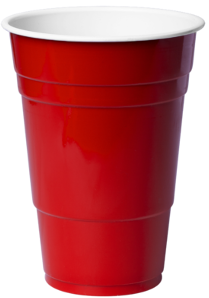
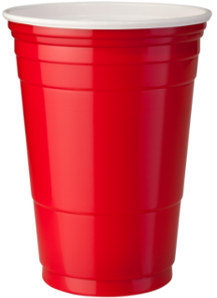
Medium level fully working

diff --git a/Project/core/src/com/beerpong/game/controller/entities/TableModel.java b/Project/core/src/com/beerpong/game/controller/entities/TableModel.java
@@ -1,27 +1,20 @@
 package com.beerpong.game.controller.entities;
 
-import com.badlogic.gdx.math.Vector2;
 import com.badlogic.gdx.physics.box2d.BodyDef;
 import com.badlogic.gdx.physics.box2d.FixtureDef;
 import com.badlogic.gdx.physics.box2d.PolygonShape;
 import com.badlogic.gdx.physics.box2d.World;
 import com.beerpong.game.model.entities.EntityModel;
 
-
 /**
- * Created by Sofia on 6/1/2017.
+ * Created by Sofia on 6/6/2017.
  */
 
-public class CupBody extends EntityBody {
+public class TableModel extends EntityBody {
 
 
-    /**
-     * Constructs a body representing a model in a certain world.
-     *
-     * @param world The world this body lives on.
-     * @param model The model representing the body.
-     */
-    public CupBody(World world, EntityModel model) {
+    public TableModel(World world, EntityModel model) {
+
 
         BodyDef bodyDef = new BodyDef();
         bodyDef.type = BodyDef.BodyType.StaticBody;
@@ -31,27 +24,22 @@ public class CupBody extends EntityBody {
         body = world.createBody(bodyDef);
         body.setUserData(model);
 
-
         float density = 2f, friction = 1f, restitution = 0f;
-        int width = 234, height = 330;
+        int width = 1600, height = 723;
 
 
-        // left side
+        // top
         createFixture(body, new float[]{
-                0,20, 40,330,55,330,15,20
+                184,35,15,119,15,190,1573,200,1573,129,1386,37
         }, width, height, density, friction, restitution, CUP_BODY, (short) (BALL_BODY | LIMIT_BODY));
 
         // bottom
         createFixture(body, new float[]{
-                40,290,40,330,196,330,196,290
-        }, width, height, 3f, friction, restitution, CUP_BODY, (short) (BALL_BODY | LIMIT_BODY));
-
-       // right side
-        createFixture(body, new float[]{
-                215,20,234,20,175,330,193,330
+                273,189,273,703,1315,703,1315,189
         }, width, height, density, friction, restitution, CUP_BODY, (short) (BALL_BODY | LIMIT_BODY));
 
 
-
     }
+
 }
+

diff --git a/Project/core/src/com/beerpong/game/view/GameView.java b/Project/core/src/com/beerpong/game/view/GameView.java
@@ -28,7 +28,7 @@ import com.beerpong.game.view.levels.LevelView;
 public class GameView extends ScreenAdapter implements GestureDetector.GestureListener {
     public static final float PIXEL_TO_METER =  0.007f;
     public static  int VIEWPORT_WIDTH =20;
-    private static final boolean DEBUG_PHYSICS = true;
+    private static final boolean DEBUG_PHYSICS = false;
 
     private final BeerPong game;
     private final LevelView level;
@@ -82,10 +82,12 @@ public class GameView extends ScreenAdapter implements GestureDetector.GestureLi
     }
 
     private void loadAssets() {
+
         game.getAssetManager().load("audio/music/whiplash.mp3", Music.class);
         game.getAssetManager().load("background.png", Texture.class);
         game.getAssetManager().load("ball.png",Texture.class);
-        game.getAssetManager().load("cup2.png",Texture.class);
+        game.getAssetManager().load("cup.png",Texture.class);
+        game.getAssetManager().load("table.png", Texture.class);
 
         game.getAssetManager().finishLoading();
     }
@@ -131,7 +133,7 @@ public class GameView extends ScreenAdapter implements GestureDetector.GestureLi
         view.draw(game.getSpriteBatch());
 
         CupModel cup = GameModel.getInstance().getCup();
-        view = new EntityView(game, "cup2.png");
+        view = new EntityView(game, "cup.png");
         view.update(cup);
         view.draw(game.getSpriteBatch());
 

diff --git a/Project/core/src/com/beerpong/game/model/GameModel.java b/Project/core/src/com/beerpong/game/model/GameModel.java
@@ -19,8 +19,8 @@ public class GameModel extends Stage {
 
     private  BallModel ball;
     private  CupModel cup;
+    private SimpleModel table;
 
-    // private SimpleModel table;
     private SimpleModel ground;
     private SimpleModel roof;
     private SimpleModel leftWall;
@@ -39,9 +39,9 @@ public class GameModel extends Stage {
         float ratio = ((float) Gdx.graphics.getHeight() / (float) Gdx.graphics.getWidth());
 
         ball = new BallModel(  VIEWPORT_WIDTH *ratio *0.2f,VIEWPORT_WIDTH/2 ,0);
-        cup = new CupModel( VIEWPORT_WIDTH *0.8f, VIEWPORT_WIDTH *0.06f , 0);
+        cup = new CupModel( VIEWPORT_WIDTH *0.8f, VIEWPORT_WIDTH *0.1f , 0);
 
-        // here initilize tabel model
+        table = new SimpleModel(VIEWPORT_WIDTH/2,VIEWPORT_WIDTH*ratio/3.8f,0);
 
         ground = new SimpleModel(0,0,0);
         leftWall = new SimpleModel(0,0,0);
@@ -65,11 +65,12 @@ public class GameModel extends Stage {
 
     public SimpleModel getRightWall(){return rightWall;}
 
-    // public SimpleModel getTabel(){ return tabel; }
+    public SimpleModel getTable(){ return table; }
 
     public static void reset(){
         instance = null;
     }
+
 
 
 }

diff --git a/Project/core/src/com/beerpong/game/controller/GameController.java b/Project/core/src/com/beerpong/game/controller/GameController.java
@@ -36,7 +36,7 @@ public class GameController implements ContactListener {
     private static GameController instance;
     private final World world;
     private final BallBody ballBody;
-    private LevelController level;
+    private static LevelController level;
 
 
     private int score =0;
@@ -58,6 +58,8 @@ public class GameController implements ContactListener {
         new LimitBody(world,GameModel.getInstance().getLeftWall(),VIEWPORT_WIDTH*ratio*0.1f,VIEWPORT_WIDTH);
         new LimitBody(world,GameModel.getInstance().getRoof(),VIEWPORT_WIDTH*ratio*2,VIEWPORT_WIDTH*0.01f);
         new LimitBody(world,GameModel.getInstance().getRightWall(),VIEWPORT_WIDTH*ratio*0.1f,VIEWPORT_WIDTH);
+
+        level.initializeElements(world);
 
 
         world.setContactListener(this);
@@ -160,8 +162,9 @@ public class GameController implements ContactListener {
     }
 
 
-    public void setLevel(LevelController level) {
-        this.level = level;
+    public static void setLevel(LevelController level) {
+
+        GameController.level = level;
     }
 
 }

diff --git a/Project/core/src/com/beerpong/game/controller/entities/BallBody.java b/Project/core/src/com/beerpong/game/controller/entities/BallBody.java
@@ -1,6 +1,7 @@
 package com.beerpong.game.controller.entities;
 
 
+import com.badlogic.gdx.physics.box2d.BodyDef;
 import com.badlogic.gdx.physics.box2d.CircleShape;
 import com.badlogic.gdx.physics.box2d.FixtureDef;
 import com.badlogic.gdx.physics.box2d.World;
@@ -22,7 +23,13 @@ public class BallBody extends EntityBody {
      * @param model the model representing this space ship.
      */
     public BallBody(World world, EntityModel model) {
-        super(world, model);
+        BodyDef bodyDef = new BodyDef();
+        bodyDef.type = BodyDef.BodyType.DynamicBody;
+        bodyDef.position.set(model.getX(), model.getY());
+        bodyDef.angle = model.getRotation();
+
+        body = world.createBody(bodyDef);
+        body.setUserData(model);
 
 
         CircleShape circle = new CircleShape();

diff --git a/Project/core/src/com/beerpong/game/view/levels/MediumView.java b/Project/core/src/com/beerpong/game/view/levels/MediumView.java
@@ -2,6 +2,9 @@ package com.beerpong.game.view.levels;
 
 import com.badlogic.gdx.graphics.Camera;
 import com.beerpong.game.BeerPong;
+import com.beerpong.game.model.GameModel;
+import com.beerpong.game.model.entities.SimpleModel;
+import com.beerpong.game.view.entities.EntityView;
 
 /**
  * Created by Sofia on 6/6/2017.
@@ -15,7 +18,13 @@ public class MediumView implements LevelView {
 
     @Override
     public void drawEntities(BeerPong game) {
-        
+
+        EntityView view;
+
+        SimpleModel ball = GameModel.getInstance().getTable();
+        view = new EntityView(game, "table.png");
+        view.update(ball);
+        view.draw(game.getSpriteBatch());
 
     }
 }

diff --git a/Project/core/src/com/beerpong/game/controller/entities/EntityBody.java b/Project/core/src/com/beerpong/game/controller/entities/EntityBody.java
@@ -34,15 +34,7 @@ public abstract class EntityBody {
      * @param world The world this body lives on.
      * @param model The model representing the body.
      */
-    EntityBody(World world, EntityModel model) {
-        BodyDef bodyDef = new BodyDef();
-        bodyDef.type = BodyDef.BodyType.DynamicBody;
-        bodyDef.position.set(model.getX(), model.getY());
-        bodyDef.angle = model.getRotation();
 
-        body = world.createBody(bodyDef);
-        body.setUserData(model);
-    }
 
     /**
      * Helper method to create a polygon fixture represented by a set of vertexes.

diff --git a/Project/core/src/com/beerpong/game/controller/levels/MediumController.java b/Project/core/src/com/beerpong/game/controller/levels/MediumController.java
@@ -1,14 +1,18 @@
 package com.beerpong.game.controller.levels;
 
-import com.beerpong.game.controller.levels.LevelController;
+import com.badlogic.gdx.physics.box2d.World;
+import com.beerpong.game.controller.entities.TableModel;
+import com.beerpong.game.model.GameModel;
 
 /**
  * Created by Sofia on 6/6/2017.
  */
 
 public class MediumController implements LevelController {
+
     @Override
-    public void initializeElements() {
+    public void initializeElements(World world) {
+        new TableModel(world, GameModel.getInstance().getTable());
 
     }
 }

diff --git a/Project/core/src/com/beerpong/game/BeerPong.java b/Project/core/src/com/beerpong/game/BeerPong.java
@@ -52,12 +52,12 @@ public class BeerPong extends Game  {
 
 		switch(level){
 			case 1:
+				GameController.setLevel((new EasyController()));
 				setScreen(new GameView(this, new EasyView()));
-				GameController.getInstance().setLevel((new EasyController()));
 				break;
 			case 2:
+				GameController.setLevel(((new MediumController())));
 				setScreen(new GameView(this, new MediumView()));
-				GameController.getInstance().setLevel(((new MediumController())));
 				break;
 
 

diff --git a/Project/core/src/com/beerpong/game/controller/levels/EasyController.java b/Project/core/src/com/beerpong/game/controller/levels/EasyController.java
@@ -1,12 +1,15 @@
 package com.beerpong.game.controller.levels;
 
+import com.badlogic.gdx.physics.box2d.World;
+
 /**
  * Created by Sofia on 6/6/2017.
  */
 
 public class EasyController implements LevelController {
+
     @Override
-    public void initializeElements() {
+    public void initializeElements(World world) {
 
     }
 }

diff --git a/Project/core/src/com/beerpong/game/controller/levels/LevelController.java b/Project/core/src/com/beerpong/game/controller/levels/LevelController.java
@@ -1,9 +1,11 @@
 package com.beerpong.game.controller.levels;
 
+import com.badlogic.gdx.physics.box2d.World;
+
 /**
  * Created by Sofia on 6/6/2017.
  */
 
 public interface LevelController {
-    public void initializeElements();
+    public void initializeElements(World world);
 }

diff --git a/Project/core/src/com/beerpong/game/controller/entities/LimitBody.java b/Project/core/src/com/beerpong/game/controller/entities/LimitBody.java
@@ -16,7 +16,7 @@ public class LimitBody extends EntityBody {
 
 
     public LimitBody(World world, EntityModel model, float width, float height) {
-        super(world, model);
+
 
         BodyDef bodyDef = new BodyDef();
         bodyDef.type = BodyDef.BodyType.StaticBody;
